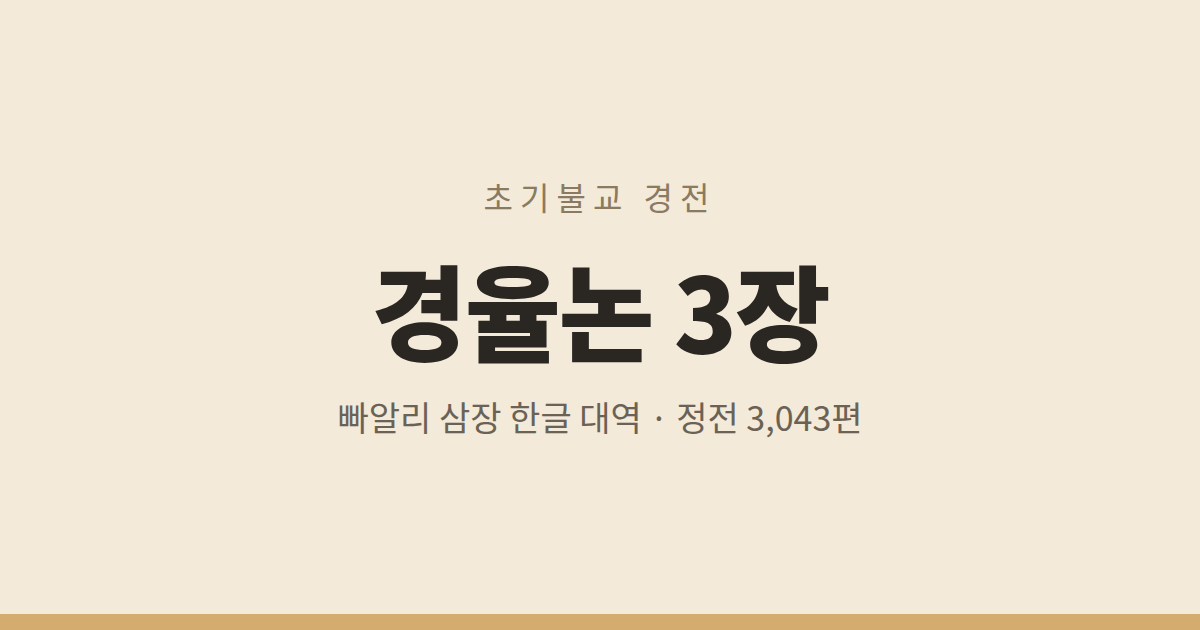
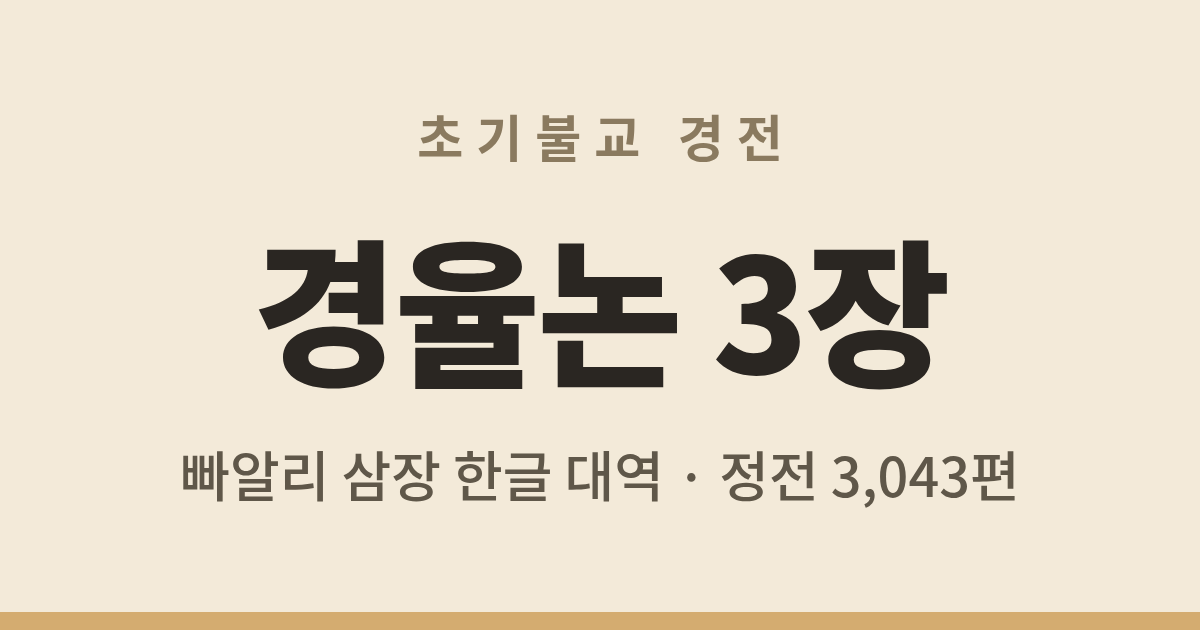
Add files via upload

diff --git a/index.html b/index.html
@@ -220,6 +220,8 @@ li.bk.sm .bar{height:4px}
 .map .mR .it.doc{display:block}
 .map .mR .it.doc small{display:block;margin:2px 0 0;padding:0;
   overflow:hidden;text-overflow:ellipsis;white-space:nowrap}
+.map .mR .it b em.no{font-style:normal;font-weight:700;color:var(--accent);
+  font-size:.9em;letter-spacing:.02em;margin-right:7px;font-variant-numeric:tabular-nums}
 .map .mR .ar{color:var(--dim)}
 @media(min-width:700px){ .map .mL{width:190px} .map .it{font-size:.9em} }
 .crumb{color:var(--dim);font-size:.76em;padding:1px 2px 5px;line-height:1.45}
@@ -849,8 +851,19 @@ function mapLeft(){
   }
   return out;
 }
-function viewMap(){
+/* 파일 이름 앞머리의 마디 번호를 뽑는다.
+   M_DN_001_…→001 · M_SN_01_…→001 · M_AN_01_02_…→01-02 · M_VIN_2b_01_…→2b-01 */
+const NORX=/^[A-Za-z]+\d*_(?:[A-Za-z]+\d*_)*?((?:\d+[a-z]?_)+)/;
+function mapNo(n){
+  const m=NORX.exec(n||''); if(!m) return '';
+  const g=m[1].split('_').filter(Boolean);
+  if(g.length===1) return g[0].length>=3? g[0] : ('00'+g[0]).slice(-3);
+  return g.map(x=> x.length>=2? x : '0'+x).join('-');
+}
+function viewMap(keepR){
   $('title').textContent='지도';
+  const oL=M.querySelector('.mL'), oR=M.querySelector('.mR');
+  const yL=oL?oL.scrollTop:0, yR=(keepR&&oR)?oR.scrollTop:0;
   const L=mapLeft();
   if(!MAPL){ const f=L.find(x=>x[0]==='i'); MAPL=f&&f[2]; MAPR=[]; }
   const cur=MAPR.length? MAPR[MAPR.length-1] : MAPL;
@@ -867,17 +880,28 @@ function viewMap(){
   const IDX=/000_목차/;
   for(const c of nd.k){ const x=D.nodes[c];
     r+='<div class="it" data-md="'+c+'"><b>'+x.l+'</b><small>'+x.n.toLocaleString()+'편</small><span class="ar">›</span></div>'; }
-  for(const rel of nd.d){ const d=D.docs[rel]; if(IDX.test(rel)) continue;
-    r+='<div class="it doc" data-mo="'+rel+'"><b>'+(d.t||d.n)+'</b>'
-      +(d.i||d.p?'<small>'+(d.i||d.p)+'</small>':'')+'</div>'; }
-  if(!nd.k.length && !nd.d.length) r+='<div class="it"><small>비어 있습니다</small></div>';
+  const dd=nd.d.filter(rel=>!IDX.test(rel));
+  const NO=dd.map(rel=>mapNo(D.docs[rel].n));
+  /* 이 칸에 놓인 것이 모두 같은 마디에 든다면 그 앞마디는 군더더기다 — 03-01 → 01 */
+  const head=NO.filter(Boolean).map(x=>x.split('-')[0]);
+  if(head.length && head.length===NO.length && NO.every(x=>x.indexOf('-')>0)
+     && head.every(x=>x===head[0]))
+    for(let i=0;i<NO.length;i++) NO[i]=NO[i].slice(NO[i].indexOf('-')+1);
+  dd.forEach((rel,ix)=>{ const d=D.docs[rel], no=NO[ix];
+    r+='<div class="it doc" data-mo="'+rel+'"><b>'
+      +(no?'<em class="no">'+no+'</em>':'')+(d.t||d.n)+'</b>'
+      +(d.i||d.p?'<small>'+(d.i||d.p)+'</small>':'')+'</div>'; });
+  if(!nd.k.length && !dd.length) r+='<div class="it"><small>비어 있습니다</small></div>';
   r+='</div>';
   M.innerHTML='<div class="map">'+l+r+'</div>';
+  const nL=M.querySelector('.mL'), nR=M.querySelector('.mR');
+  if(nL) nL.scrollTop=yL;
+  if(nR) nR.scrollTop=yR;
   scrollTo(0,0);
 }
 document.addEventListener('click',e=>{
   const a=e.target.closest('[data-ml]');
-  if(a){ MAPL=a.dataset.ml; MAPR=[]; viewMap(); return; }
+  if(a){ MAPL=a.dataset.ml; MAPR=[]; viewMap(); return; }   // 왼쪽은 그대로, 오른쪽만 처음으로
   const b=e.target.closest('[data-md]');
   if(b){ MAPR.push(b.dataset.md); viewMap(); return; }
   const c=e.target.closest('[data-mup]');

diff --git a/sw.js b/sw.js
@@ -1,8 +1,9 @@
 /* 껍데기(index.html)는 새것을 먼저 받아 본다 — 앱을 고쳤을 때 바로 반영되도록.
    자료(data.bin)와 아이콘은 캐시를 먼저 쓴다 — 2.8MB 를 매번 받지 않도록. */
-const C='kyl3-pub-2026-08-29e';
+const C='kyl3-pub-2026-08-29g';
 const F=['./','./index.html','./data.bin','./f-kr.woff2','./f-krb.woff2','./f-pali.woff2',
-         './manifest.webmanifest','./icon-192.png','./icon-512.png','./og.png'];
+         './manifest.webmanifest','./icon-192.png','./icon-512.png',
+         './icon-mask-192.png','./icon-mask-512.png','./og.png'];
 self.addEventListener('install',e=>{
   self.skipWaiting();
   e.waitUntil(caches.open(C).then(c=>c.addAll(F)).catch(()=>{}));

diff --git a/tools/mkstubs.py b/tools/mkstubs.py
@@ -47,22 +47,30 @@ def title(r, d, i):
     return (n[:k+1] + d.get('t', '')) if k > 0 else d.get('t', '')
 
 def brief(d):
-    """본문에서 앞머리 줄을 걷어 내고 한글 두어 문장을 뽑는다."""
+    """한 줄 소개를 먼저 쓰고, 없으면 본문에서 한글 두어 문장을 뽑는다.
+    마크다운 부호(> · ** · # · [!abstract]-)는 남김없이 벗긴다."""
+    intro = (d.get('i') or '').strip()
+    if len(intro) >= 20:
+        intro = intro
     t = d.get('c', '')
-    t = re.sub(r'^#.*$', '', t, flags=re.M)                 # 제목 줄
+    t = re.sub(r'^>.*$', '', t, flags=re.M)                 # 접기 상자(얼개·풀이) 통째로
+    t = re.sub(r'^#{1,6}.*$', '', t, flags=re.M)            # 제목·절 이름
     t = re.sub(r'^목록 →.*$', '', t, flags=re.M)            # 길잡이 줄
-    t = re.sub(r'^##.*$', '', t, flags=re.M)                # 절 이름
+    t = re.sub(r'^\|.*$', '', t, flags=re.M)                # 표
     t = re.sub(r'^§.*$', '', t, flags=re.M)                 # 게송 표시
-    t = re.sub(r'\[\[([^\]|]+)\]\]', r'\1', t)
+    t = re.sub(r'\[\[([^\]|]+\|)?([^\]]+)\]\]', r'\2', t)      # 위키링크
+    t = re.sub(r'\[!\w+\]-?\s*', '', t)
+    t = re.sub(r'[*_`]', '', t)
     out = []
     for line in t.split('\n'):
         line = line.strip()
         if not line: continue
         if not re.search(r'[가-힣]', line): continue        # 팔리 줄은 건너뛴다
         out.append(line)
-        if sum(len(x) for x in out) > 130: break
-    s = ' '.join(out)
-    return (s[:150] + '…') if len(s) > 150 else s
+        if sum(len(x) for x in out) > 230: break
+    s2 = re.sub(r'\s+', ' ', ' '.join(out)).strip()
+    s2 = (intro + ' ' + s2).strip() if intro else s2
+    return (s2[:250] + '…') if len(s2) > 250 else s2
 
 ID = ids(D['docs'])
 os.makedirs(OUT, exist_ok=True)
@@ -82,7 +90,9 @@ TPL = """<!DOCTYPE html>
 <meta property="og:description" content="{b}">
 <meta property="og:url" content="{u}">
 <meta property="og:image" content="{img}">
-<meta name="twitter:card" content="summary">
+<meta property="og:image:width" content="1200">
+<meta property="og:image:height" content="630">
+<meta name="twitter:card" content="summary_large_image">
 <link rel="canonical" href="../#{i}">
 <meta http-equiv="refresh" content="0; url=../#{i}">
 <script>location.replace('../#{i}');</script>
@@ -103,8 +113,23 @@ for r, d in D['docs'].items():
     t = html.escape(title(r, d, i), quote=True)
     b = html.escape(brief(d) or '빠알리 삼장 한글 대역', quote=True)
     u = f'{SITE}/s/{i}.html' if SITE else f's/{i}.html'
-    img = f'{SITE}/icon-512.png' if SITE else '../icon-512.png'
+    img = f'{SITE}/og.png' if SITE else '../og.png'
     open(os.path.join(OUT, i + '.html'), 'w', encoding='utf-8').write(
         TPL.format(t=t, b=b, u=u, i=i, img=img))
     n += 1
 print(f'미리보기 파일 {n:,}개 만듦 → s/')
+
+
+# ── 뿌리 화면의 og 주소를 온전한 꼴로 고친다 ──────────────────────────
+# 상대 주소(og.png)는 카톡 PC 는 읽어 내지만 모바일 미리보기 서버는 놓친다.
+if SITE:
+    ip = os.path.join(ROOT, 'index.html')
+    if os.path.exists(ip):
+        h = open(ip, encoding='utf-8').read()
+        h2 = h.replace('content="og.png"', f'content="{SITE}/og.png"')
+        if '<meta property="og:url"' not in h2:
+            h2 = h2.replace('<meta property="og:image"',
+                            f'<meta property="og:url" content="{SITE}/">\n<meta property="og:image"', 1)
+        if h2 != h:
+            open(ip, 'w', encoding='utf-8').write(h2)
+            print('뿌리 index.html 의 og 주소를 온전한 꼴로 고침')
